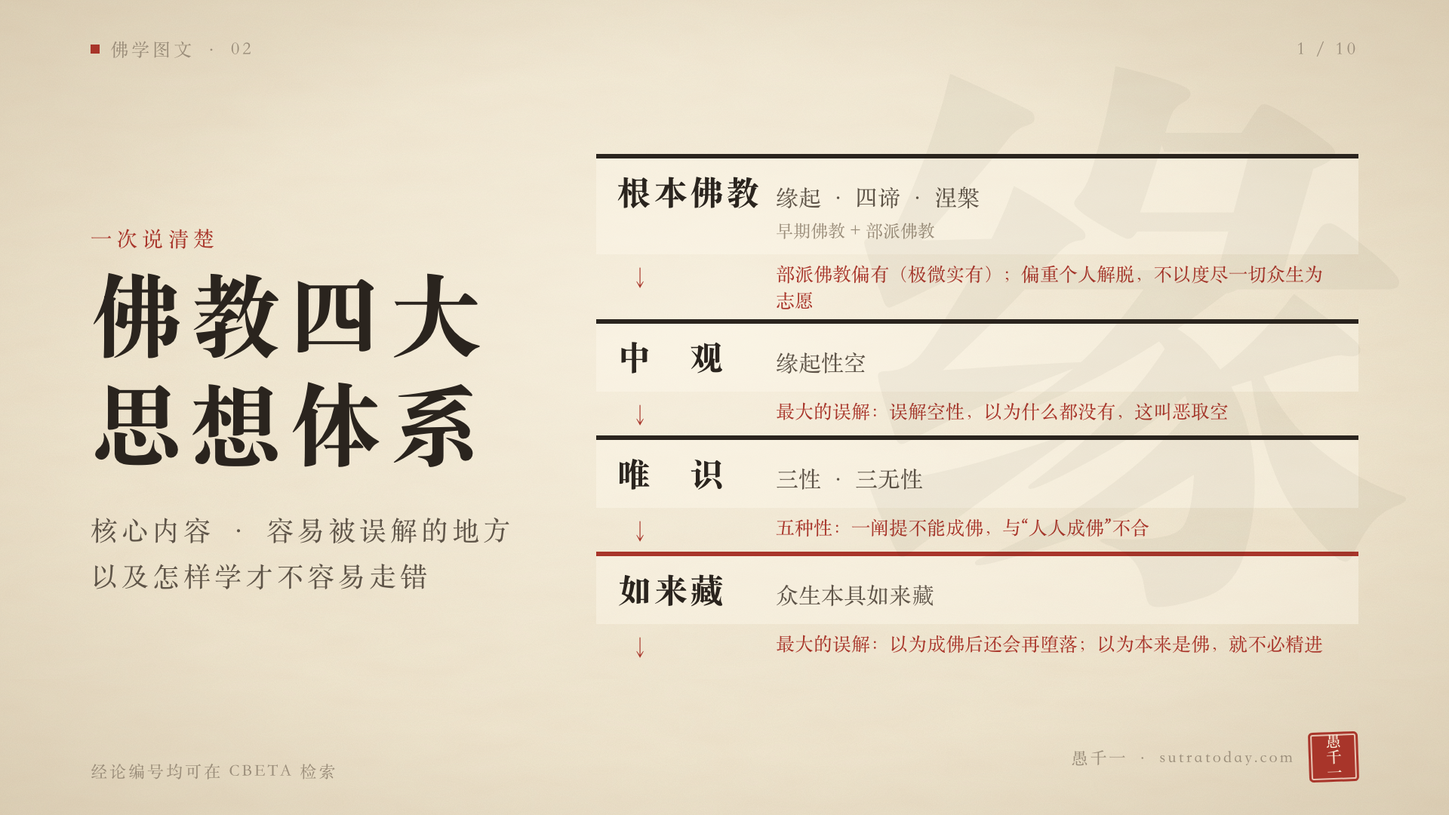
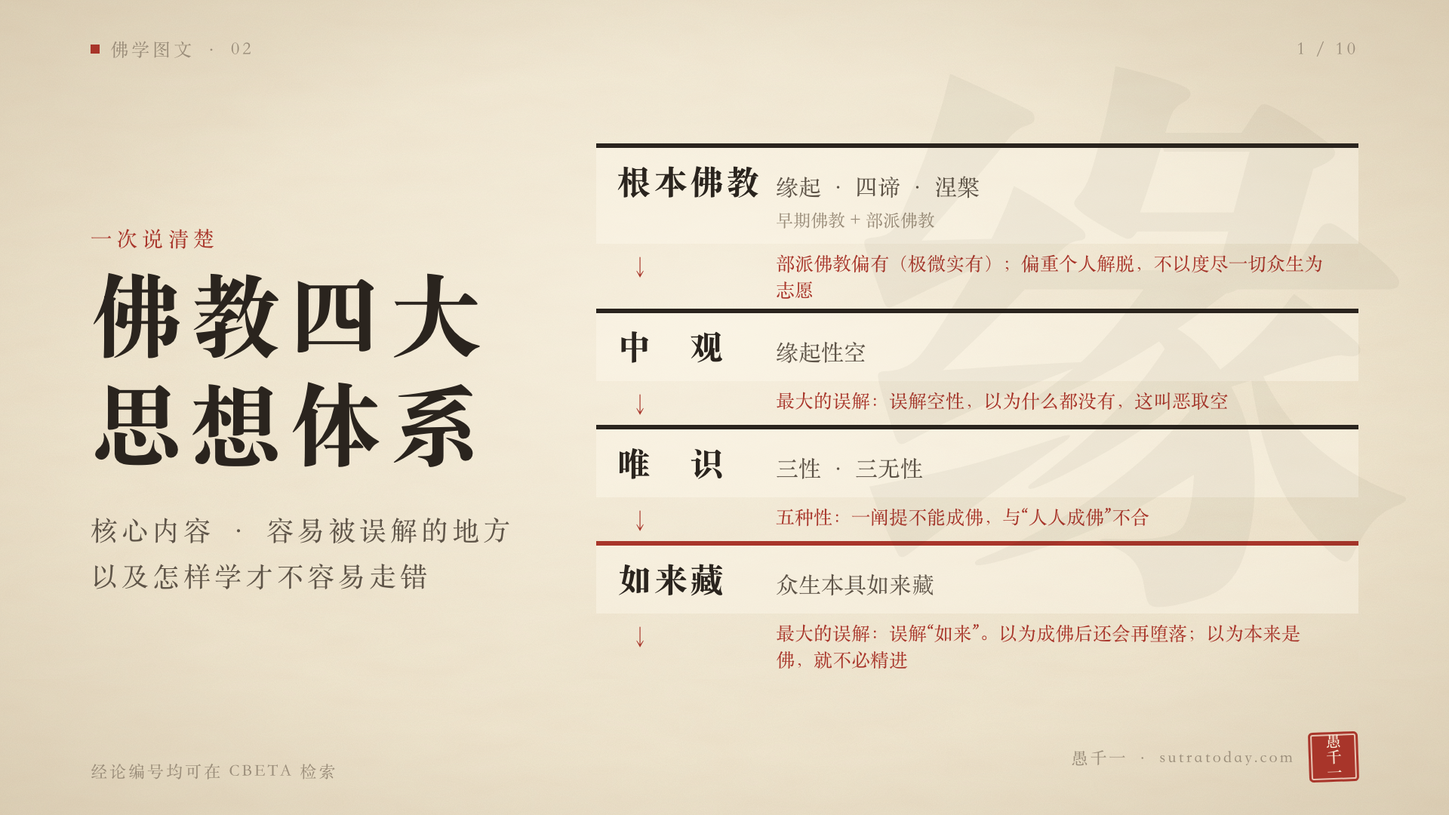
videos: 四大思想体系口播稿按经论校验修订，同步更新卡片 3/7/9 及引文核对记录

Changed region(s): [[0.4062, 0.4583, 0.9375, 0.825], [0.4062, 0.1528, 0.9375, 0.4583], [0.5312, 0.4278, 0.5938, 0.4583]]

diff --git a/videos/buddhism-four-systems-infographic/cards.html b/videos/buddhism-four-systems-infographic/cards.html
@@ -181,7 +181,7 @@
       <div class="n"><b>唯　识</b><span>三性 · 三无性</span></div>
       <div class="ar"><i>↓</i><span>五种性：一阐提不能成佛，与“人人成佛”不合</span></div>
       <div class="n r"><b>如来藏</b><span>众生本具如来藏</span></div>
-      <div class="ar"><i>↓</i><span>最大的误解：以为成佛后还会再堕落；以为本来是佛，就不必精进</span></div>
+      <div class="ar"><i>↓</i><span>最大的误解：误解“如来”。以为成佛后还会再堕落；以为本来是佛，就不必精进</span></div>
     </div>
   </div>
   <div class="foot"><span>经论编号均可在 CBETA 检索</span><span class="sign">愚千一 · sutratoday.com<span class="seal">愚千一</span></span></div>
@@ -240,7 +240,7 @@
       <p>菩萨道的迫切度生之心，要到大乘才充分展开。</p>
     </div>
   </div>
-  <div class="strip"><b>承接：</b>有部“偏有”的倾向，由般若“一切空”来纠偏。</div>
+  <div class="strip"><b>承接：</b>有部“偏有”的倾向，般若可以纠偏。</div>
   <div class="foot"><span>佛学图文 · 佛教四大思想体系</span><span class="sign">愚千一 · sutratoday.com<span class="seal">愚千一</span></span></div>
 </section>
 
@@ -345,17 +345,17 @@
   <div class="cols" style="grid-template-columns: 560px 1fr;">
     <div class="blk">
       <h3>五种性</h3>
-      <div class="tag">《成唯识论》卷 2：「既说本有五种性别」</div>
+      <div class="tag">《成唯识论》卷 2：依无漏种子的有无建立</div>
       <div class="pills">
         <span class="pill">声闻种性</span><span class="pill">独觉种性</span><span class="pill">如来种性</span><span class="pill">不定种性</span><span class="pill r">无种性</span>
       </div>
-      <p style="margin-top:20px;font-size:26px;color:var(--ink-soft)">《瑜伽师地论》卷 21 说无种姓的人“无涅槃法”，诸佛也不能救。</p>
+      <p style="margin-top:20px;font-size:26px;color:var(--ink-soft)">全无无漏种的，是无种性。《瑜伽师地论》卷 21 说无种姓的人“无涅槃法”，诸佛也不能救。</p>
     </div>
     <div class="cols" style="gap:20px;">
       <div class="blk r">
         <h3>与汉地的两处冲突</h3>
-        <p><b>一、</b>无种性的一阐提没有成佛的可能，与“人人都能成佛”不合。</p>
-        <p><b>二、</b>定性声闻永远不入菩萨乘，与《法华经》“声闻终成佛”不合（卷 2：舍利弗未来成华光如来）。</p>
+        <p><b>一、</b>无种性（一阐提）全无无漏种，没有成佛的可能，与“人人都能成佛”不合。</p>
+        <p><b>二、</b>只有声闻无漏种的人，所知障种永远断不了，不能成佛，与《法华经》“声闻终成佛”不合（卷 2：舍利弗未来成华光如来）。</p>
       </div>
       <div class="blk">
         <h3>汉地的背景，早于玄奘</h3>
@@ -363,7 +363,7 @@
       </div>
     </div>
   </div>
-  <div class="strip"><b>附记：</b>《解深密经》卷 2 自己说：“唯有一乘”是密意说，“非于一切有情界中，无有种种有情种性”。</div>
+  <div class="strip"><b>附记：</b>《解深密经》卷 2 自己说：“唯有一乘”是密意说，“非于一切有情界中，无有种种有情种性”。玄奘一系解释《法华经》，说它对的是大乘定性和三乘不定性的人（窥基《法华玄赞》卷 1）。</div>
   <div class="foot"><span>佛学图文 · 佛教四大思想体系</span><span class="sign">愚千一 · sutratoday.com<span class="seal">愚千一</span></span></div>
 </section>
 
@@ -398,31 +398,34 @@
 <section class="card">
   <div class="head"><span class="series">佛学图文 · 02</span><span class="pg"></span></div>
   <div class="tt"><div class="kicker">第四个体系 · 最大的误解</div></div>
-  <h1 class="title">如来藏的三个问题，与一个解释</h1>
+  <h1 class="title">误解“如来”：三种常见的理解</h1>
   <div class="rule"></div>
   <div class="cols c3 p3">
-    <div class="blk">
-      <h3>“本具”怎么理解</h3>
-      <p><b>甲、本具的是佛性的种子。</b>佛不会再长大，种子和佛是两样东西。</p>
-      <p><b>乙、本具的是圆满的佛。</b>被烦恼盖住：烦恼强，佛智就不圆满；佛智强，为什么不能自己破除烦恼？</p>
-    </div>
-    <div class="blk">
-      <h3>变得懈怠</h3>
-      <p>既然本来是佛，只要拂去灰尘，听上去不必很用力修行。不少人因此发心不大：反正迟早成佛。</p>
-      <p>实际上成佛要非常努力。</p>
-    </div>
     <div class="blk r">
-      <h3>成佛又变凡夫？</h3>
-      <p>有人以为：本来是佛，后来堕落成凡夫；修成佛以后，又会再堕落。</p>
-      <p>那就成了新的轮回，谈不上解脱。佛成就以后不再退转。</p>
+      <h3>一、成佛后变回凡夫</h3>
+      <div class="tag">严重误解</div>
+      <p>以为本来是佛，后来堕落成凡夫；修成佛以后，又会再堕落。</p>
+      <p>佛和凡夫来回循环，也是一种轮回，谈不上解脱。这是对佛了解得太少。</p>
+    </div>
+    <div class="blk">
+      <h3>二、圆满的佛，报身也具足</h3>
+      <div class="tag">严重误解</div>
+      <p>像一个成年人，只是被烦恼盖住，像镜子蒙了灰。</p>
+      <p>灰尘感觉上很容易擦掉，于是容易懈怠，很难精进地学佛、修行。</p>
+    </div>
+    <div class="blk">
+      <h3>三、婴儿佛</h3>
+      <div class="tag" style="color:var(--ink-soft)">一般误解</div>
+      <p>以为里面是一个婴儿佛，还要慢慢养大。</p>
+      <p>可是婴儿会长大，佛是圆满的，不需要再成长，也不需要再修行。</p>
     </div>
   </div>
   <div class="blk" style="margin-top:24px;border-top-color:var(--cinnabar);background:rgba(168,53,42,.06)">
-    <h3>用唯识来理解：佛性是什么　<span style="font-size:24px;font-weight:400;color:var(--ink-soft);letter-spacing:1px">作者的看法</span></h3>
+    <h3>“如来”是什么：用唯识来理解　<span style="font-size:24px;font-weight:400;color:var(--ink-soft);letter-spacing:1px">作者的看法</span></h3>
     <div class="cols" style="grid-template-columns:1fr 1fr 1fr;gap:28px;margin-top:10px">
       <p>有大师说佛性是空性。但空性没有作用，把没有作用的东西当作佛性，与“佛性能成佛”对不上。</p>
       <p>结合唯识，我们把佛性理解成这颗<b>清净的无漏种子</b>（《成唯识论》卷 2），是一种比较好、稳妥的理解方式。</p>
-      <p>种子本身没有力量，要生根发芽才有力量。所以既不是“本来就是佛”，也不是“不必修”，上面两种理解的难处也不再出现。</p>
+      <p>种子要发挥作用，要靠听闻正法、佛菩萨的助缘和六度修行来增长。《起信论》：本有的是真如自体、如来法身；报身要靠诸波罗蜜等无漏行熏成就。</p>
     </div>
   </div>
   <div class="foot"><span>佛学图文 · 佛教四大思想体系</span><span class="sign">愚千一 · sutratoday.com<span class="seal">愚千一</span></span></div>
@@ -440,7 +443,7 @@
     <tr><td class="k">根本佛教</td><td>缘起；四谛、十二因缘、三十七道品；涅槃＝烦恼灭尽（早期＋部派）</td><td class="pb">部派偏有（极微实有）；偏重个人解脱，不以度尽一切众生为志愿</td></tr>
     <tr><td class="k">中　观</td><td>因缘生，没有自性（没有固定、恒常、不变的实体），所以是空性</td><td class="pb">最大的误解：误解空性，以为什么都没有，否定因果，这叫恶取空</td></tr>
     <tr><td class="k">唯　识</td><td>八识；三性、三无性</td><td class="pb">五种性：一阐提、定性声闻不能成佛</td></tr>
-    <tr class="r"><td class="k">如来藏</td><td>众生本具如来藏，烦恼如尘</td><td class="pb">最大的误解：以为成佛后还会再堕落；以为本来是佛，就不必精进</td></tr>
+    <tr class="r"><td class="k">如来藏</td><td>众生本具如来藏，烦恼如尘</td><td class="pb">最大的误解：误解“如来”。以为成佛后还会再堕落；以为本来是佛，就不必精进</td></tr>
   </table>
   <div class="strip" style="margin-top:34px;border-left-width:8px;background:rgba(168,53,42,.08);padding:20px 30px;font-size:40px;line-height:1.55;color:var(--ink);font-weight:700">学习唯识，误解最少，走错路的可能性最小；用唯识来理解如来藏，同样稳妥。</div>
   <div class="foot"><span>佛学图文 · 佛教四大思想体系</span><span class="sign">愚千一 · sutratoday.com<span class="seal">愚千一</span></span></div>

diff --git a/videos/buddhism-four-systems-infographic/script.md b/videos/buddhism-four-systems-infographic/script.md
@@ -31,7 +31,7 @@
 根本佛教：部派佛教偏有，还有偏重个人解脱，不以度尽一切众生为志愿。  
 中观：最大的误解，是误解空性，以为什么都没有，这叫恶取空。  
 唯识：五种性，一阐提不能成佛，和汉地讲的人人成佛不合。  
-如来藏：最大的误解有两个，一个是以为成佛后还会再堕落，一个是以为本来是佛，就不必精进。  
+如来藏：最大的误解，是误解「如来」。由此，有人以为成佛后还会再堕落，有人以为本来是佛，就不必精进。  
 讲完以后，我会说一说我自己的看法：学哪一个体系，走错路的可能性最小。  
 
 ## 第 2 张
@@ -43,9 +43,9 @@
 这里最主要的，是《杂阿含经》里反复出现的一句话：「此有故彼有，此起故彼起；此无故彼无，此灭故彼灭。」  
 意思是：这个有，所以那个有；这个生起，所以那个生起；这个没有，所以那个没有；这个灭了，所以那个灭了。  
 这句话，《杂阿含》卷十二第二九八经里，是佛在讲缘起法：「此有故彼有，此起故彼起，谓缘无明行，乃至纯大苦聚集」。卷十三第三三五经里，又接着说：「此无故彼无，此灭故彼灭，无明灭故行灭」。  
-经里用它来讲人的生命。把范围放大，从生命放大到宇宙里的一切事物，这句话同样成立。所以，根本佛教的主要教义，就是缘起法。  
+经里用它来讲人的生命。把范围放大，从生命放大到宇宙里的一切事物，这句话同样成立。《杂阿含》卷十二第二九六经说，这个缘起法，「若佛出世，若未出世，此法常住，法住法界」：不管佛有没有出世，这个道理都在那里。所以，根本佛教的主要教义，就是缘起法。  
 再看图。上面一排，是十二因缘的顺转：无明、行、识、名色、六入、触、受、爱、取、有、生、老死。顺着走，就是苦聚集起。下面一排，是逆转：无明灭，行灭，一路灭到老死灭，苦聚灭。  
-根本佛教的目标是涅槃。涅槃的定义，就是烦恼灭尽。怎么灭烦恼？从十二因缘看，顺着烦恼走，是顺转；把烦恼灭掉，是逆转。具体的修法，是三十七道品。  
+根本佛教的目标是涅槃。涅槃的定义，就是烦恼灭尽。《杂阿含》卷十八，舍利弗回答阎浮车时说：「涅槃者，贪欲永尽，瞋恚永尽，愚痴永尽，一切诸烦恼永尽，是名涅槃。」怎么灭烦恼？从十二因缘看，顺着烦恼走，是顺转；把烦恼灭掉，是逆转。具体的修法，是三十七道品。  
 
 ## 第 3 张
 
@@ -58,17 +58,18 @@
 第二个，常有人批评说：他们讲了人我空，没有讲法我空。我的看法是，原始经文里，是可以推出法空的，只是没有重点强调。  
 比如《杂阿含》卷十三第三三五经，说眼睛生起的时候，没有来处；灭的时候，没有去处。「如是眼不实而生，生已尽灭，有业报而无作者」。眼，是一个法。经里说它生了就灭，不是实在的。顺着「此有故彼有」推下去，法空是自然的结论。  
 第三个，根本佛教确实以个人解脱为目标。它追求的，是自己烦恼灭尽，出离生死。对全人类、全部众生的解脱，没有特别去追求。这一点，是实情。  
-偏有这个倾向，后来由般若来纠偏。我们接着讲。  
+般若可以纠正这种偏有。我们接着讲。  
 
 ## 第 4 张
 
 ![](out/card-4.png)
 
 第二个体系，中观，也叫般若。  
-般若为了纠正偏有，讲「一切无，一切空」。这个空，是自性空。意思是：没有一个固定的、恒常的、不变的实体。  
+般若可以纠正偏有，它讲「一切无，一切空」。这个空，是自性空。意思是：没有一个固定的、恒常的、不变的实体。  
 怎么理解？任何事物，都是靠各种条件聚合起来的。条件变了，它就跟着变。你找不到哪一样东西，可以脱离条件独立存在，并且永远是那个样子。这就是自性空。  
 所以，般若的中心思想，合起来叫缘起性空。因缘生，所以有；没有自性，所以是空性。  
-空性，不是没有。现象上的有，般若并不否认。花开花落，人来人往，都是有的。它否认的，是在现象背后，另外有一个绝对不变的东西。  
+空性，不是没有。现象上的有，般若并不否认。花开花落，人来人往，都是有的。它否认的，是在现象背后，另外有一个绝对不变的东西。《心经》说：「色不异空，空不异色，色即是空，空即是色」，现象本身就是空，空也不离现象。  
+《中论》卷四，青目的注释里说：「若法有性相，则不待众缘而有」。如果一样东西有自性，它就不需要依靠条件。可是任何东西都要依靠条件，所以「无有不空法」，没有哪一样东西不是空。  
 龙树菩萨在《中论》卷四观四谛品里说：「未曾有一法，不从因缘生，是故一切法，无不是空者。」  
 把缘起性空这四个字弄明白，般若的思想就理解到了。再去读《心经》《金刚经》《般若经》，就容易得多。  
 
@@ -83,6 +84,8 @@
 《大宝积经》卷一一二，普明菩萨会，佛对迦叶说：「宁起我见积若须弥，非以空见起增上慢。」  
 《中论》卷二观行品：「大圣说空法，为离诸见故；若复见有空，诸佛所不化。」  
 《中论》卷四观四谛品：「不能正观空，钝根则自害，如不善咒术，不善捉毒蛇。」  
+《大智度论》卷十五也说：「若观诸法常毕竟空，取相心著，是为恶邪见」，把空抓成一个东西去执着，就是恶邪见。  
+反过来，《中论》卷四说：「以有空义故，一切法得成；若无空义者，一切则不成」。有了空义，一切才能成立，因果也在其中。把空理解成什么都没有，正好和这句话相反。  
 从这些原文看，执着有，还有办法化导；执着空，连诸佛也难化。  
 所以我的建议是：如果对空，不能产生正确的理解，干脆就认为有，一切都是有，也可以。  
 
@@ -98,6 +101,7 @@
 第三，圆成实性：远离执着以后，显出来的真如。  
 针对三性，又立了三无性。遍计所执，立相无性；依他起，立无自然性，也叫生无性；圆成实，立胜义无性。  
 世亲菩萨在《唯识三十论颂》里说：「即依此三性，立彼三无性，故佛密意说，一切法无性。」  
+《成唯识论》卷九解释这首颂时，特别说了一句：「故佛密意说一切法皆无自性，非性全无」。意思是，说无性，不是说什么都没有。依他起、圆成实，体不是没有；没有的，是凡夫在它们上面执着出来的实我、实法。  
 这样，有的一面，三性逐层分析清楚；空的一面，三无性讲明白。既不偏有，也不会落进恶取空。而且唯识属于大乘，立菩萨道，个人解脱的问题，也一并解决了。  
 有一点要留意：唯识把依他起、圆成实说成有，和中观的说法有出入。这一点，以后再专门讲。  
 
@@ -106,10 +110,11 @@
 ![](out/card-7.png)
 
 唯识也有它的短板。  
-玄奘大师传的唯识，有五种性的说法。《成唯识论》卷二里说：「既说本有五种性别」。五种是：声闻种性、独觉种性、如来种性、不定种性，还有无种性。《瑜伽师地论》卷二十一说，无种姓的人，没有涅槃法，诸佛也不能救。  
+玄奘大师传的唯识，有五种性的说法。五种是：声闻种性、独觉种性、如来种性、不定种性，还有无种性。  
+《成唯识论》卷二，按无漏种子的有无来讲：「若全无无漏种者，……即立彼为非涅槃法」，这是无种性；「若唯有二乘无漏种者」，是声闻种姓、独觉种姓；「若亦有佛无漏种者，……即立彼为如来种姓」。《瑜伽师地论》卷二十一说，无种姓的人，没有涅槃法，诸佛也不能救。  
 这和汉地的想法，有两处冲突。  
 第一，无种性的人，就是一阐提，没有成佛的可能；而汉地讲的是，人人都能成佛。  
-第二，定性声闻，永远不会进入菩萨乘；而《法华经》讲，声闻最终也会成佛。卷二里，舍利弗未来成佛，名叫华光如来。  
+第二，只有声闻无漏种子的人，所知障的种子永远断不了，不能成佛；而《法华经》讲，声闻最终也会成佛。卷二里，舍利弗未来成佛，名叫华光如来。玄奘一系对《法华经》的解释，是说这部经对的是大乘定性和三乘不定性的人，见窥基大师《法华玄赞》卷一。  
 汉地这种想法，在玄奘大师之前，已经相当普遍了。东晋义熙十四年，也就是公元四一八年，法显带回的六卷《泥洹经》译了出来。竺道生读了这部经，主张一阐提也都能成佛，《高僧传》卷七有记载。后来《涅槃经》大本传到南方，经里果然说，一切众生都有佛性。玄奘大师西行，是在唐朝初年，比这晚了两百多年。  
 顺便补一句，《解深密经》卷二里说：「唯有一乘」是密意说。经里还说：「非于一切有情界中，无有种种有情种性」。就是说，这部经自己，是承认众生的种性有差别的。  
 这就是唯识不被汉地接受的地方。而如来藏的思想，正好讲的是人人本具佛性，人人都能成佛。  
@@ -123,22 +128,25 @@
 《如来藏经》里说：「一切众生，虽在诸趣，烦恼身中有如来藏，常无染污，德相备足，如我无异。」  
 经里还有一个比喻：「譬如天眼之人，观未敷花，见诸花内有如来身……除去萎花，便得显现。」枯萎的花，比喻烦恼；花里的佛身，比喻如来藏。  
 《胜鬘经》卷一说：「如来法身不离烦恼藏，名如来藏。」  
+《大乘起信论》说，真如的自体，「从本已来，性自满足一切功德」，「名为如来藏，亦名如来法身」。但是论里同时说，现在的一切众生，「不名为觉」，因为他们「从本来念念相续，未曾离念」。  
 如来藏的思想，鼓舞人心，修行的方便也多，所以很受欢迎。汉传佛教的主流，就是如来藏这一系。依据的经论，有《如来藏经》《胜鬘经》《大般涅槃经》，还有《究竟一乘宝性论》。  
 
 ## 第 9 张
 
 ![](out/card-9.png)
 
-如来藏最容易被误解的地方，有三个。  
-第一个，「本具」怎么理解。如来藏，就是人人都是如来，人人都是佛。这有两种解释。  
-第一种，本来具有的，是佛性的种子。像一棵小树苗，像一个婴儿，还要养大。可是佛不会再长大。如果还有成长的空间，就不叫佛了。所以，种子和佛，是两样东西。  
-第二种，本来具有的，是一个圆满的佛，像一个成年人，只是被烦恼盖住了，像镜子蒙了灰。那就有问题：是烦恼厉害，还是佛的智慧厉害？如果烦恼厉害，就和佛的圆满智慧矛盾；如果佛的智慧厉害，为什么自己不能冲破烦恼？这就像水和火，不可能既是最厉害的水，又是最厉害的火，还融在一起。镜子的比喻也一样：镜子自己没有清洁的能力，要靠外面的东西。可是佛的智慧和能力是最强的，两者对不上。  
-《胜鬘经》卷一自己也说：「自性清净心而有染者，难可了知」。  
-第二个，让人变得消极、懈怠。既然本来就是佛，只要拂去灰尘，听上去不必很努力。所以很多信如来藏的人，发心都不大：反正人人是佛，迟早都会成佛。可是，成佛需要非常非常努力，不会轻松。你想想赚钱：赚快钱的，不是违法违德，就是骗人。成佛，难道会比这更容易吗？  
-第三个，以为成佛以后，还会变回凡夫。有人觉得，我们本来是佛，后来因为一些原因堕落，变成了凡夫；现在努力修，修成佛；成了佛，又会堕落，再来修。佛和凡夫来回循环，岂不也是一种轮回？这样，还谈什么解脱？这种理解，是对佛了解得太少。  
-那么怎么办？这是我自己的看法：结合唯识来理解。  
+如来藏最容易被误解的，是里面的「如来」。  
+如来藏，说的是人人都有如来，人人都是佛。那么，这个「如来」，到底是什么样的佛？大家常有三种误解。前两种，比较严重；第三种，是一般的误解。  
+第一种，以为成佛以后，还会变回凡夫。有人觉得，我们本来是佛，后来因为一些原因堕落，变成了凡夫；现在努力修，修成了佛；成了佛，又会堕落，再来修。佛和凡夫来回循环，岂不也是一种轮回？这样，还谈什么解脱？这种理解，是对佛了解得太少。  
+第二种，以为凡夫里面，是一个圆满的佛，连报身也具足了，像一个成年人，只是被烦恼盖住了，像镜子蒙了灰。灰尘，感觉上很容易擦掉，因此就容易产生懈怠的心理，很难精进地学佛、修行。  
+第三种，是一般的误解：以为是一个婴儿佛，还要慢慢养大。可是婴儿会长大，佛是圆满的，不需要再成长，也不需要再修行。所以婴儿佛的说法，说不通。  
+那么，如来藏里的「如来」，应该怎么理解？这是我自己的看法：结合唯识来理解。  
 有些大师说，佛性是空性。可是空性没有作用，把没有作用的东西当作佛性，和「佛性能成佛」，逻辑上对不上。  
-结合唯识，我们把佛性，理解成清净的无漏种子，《成唯识论》卷二讲的就是无漏种子。种子本身没有力量，要生根发芽，才有力量。所以既不是本来就是佛，也不是不必修行。前面两种理解的难处，也就不会出现了。  
+结合唯识，我们把佛性，理解成清净的无漏种子，《成唯识论》卷二讲的就是无漏种子。  
+要说明一点：玄奘大师传的唯识，认为无漏种子的有无，决定种姓的不同，无种性的人是全无无漏种的。所以这里借用的，是唯识对佛性的说明方式；人人是不是都有这颗种子，唯识和如来藏的看法不同。  
+种子要发挥作用，要生根发芽。生根发芽，需要条件。《成唯识论》卷二说，听闻正法的时候，也会熏习本有的无漏种子，「令渐增盛，展转乃至生出世心」。菩萨修六度，是在积累福德和智慧的资粮，《成唯识论》卷九里讲得很详细。  
+《大乘起信论》说的，是同一个道理。真如有一种自体相熏习，「从无始世来，具无漏法」，能让众生「自信己身有真如法，发心修行」。可是光有这个还不够，论里用木头里的火性作比喻：火性是火的正因，可是「若无人知，不假方便能自烧木，无有是处」；众生「虽有正因熏习之力，若不值遇诸佛菩萨善知识等以之为缘」，也不能自己断烦恼、入涅槃。所以还要靠佛菩萨这些外缘，要靠施、戒、忍、进、止观这些修行。  
+《起信论》里，本有的，是真如自体，也叫如来藏、如来法身。至于报身，论里说它是「皆因诸波罗蜜等无漏行熏，及不思议熏之所成就」，是修六度这些无漏行，一点一点熏成的。  
 我认为，这是一种比较好、稳妥的理解方式。  
 
 ## 第 10 张
@@ -149,7 +157,7 @@
 根本佛教：主张是缘起，四谛、十二因缘、三十七道品，目标是涅槃，也就是烦恼灭尽。问题是，部派佛教偏有，还有偏重个人解脱，不以度尽一切众生为志愿。  
 中观：因缘生，没有自性，所以是空性。最大的误解，是误解空性，以为什么都没有，否定因果，这叫恶取空。  
 唯识：讲八识，讲三性、三无性。问题是五种性：一阐提、定性声闻，不能成佛。  
-如来藏：众生本具如来藏，烦恼如尘。最大的误解有两个：以为成佛后还会再堕落；以为本来是佛，就不必精进。  
+如来藏：众生本具如来藏，烦恼如尘。最大的误解，是误解「如来」：以为成佛后还会再堕落；以为本来是佛，就不必精进。  
 四个体系讲完了，我自己的看法是：学习唯识，误解最少，走错路的可能性最小；用唯识来理解如来藏，同样稳妥。  
 这一期的经论，都可以在 CBETA 里检索到。  
 好，今天就讲到这里。  

diff --git a/videos/buddhism-four-systems-infographic/sources.md b/videos/buddhism-four-systems-infographic/sources.md
@@ -29,3 +29,39 @@
 
 - “玄奘翻译唯识时对五种性有很大顾虑”：没有查到出处。图卡只写了可核实的：玄奘西行起因之一是地论师、摄论师对佛性、阿赖耶识的分歧；成唯识论本身保留五种性。
 - 卡 7 的年代：六卷《泥洹经》译于东晋义熙十四年（418），到玄奘西行（唐初，约 627–629）两百多年。
+
+## 口播稿校验（根本佛教 / 中观 / 唯识 / 如来藏）新增并核对的引文
+
+| 位置 | 引文 | 出处 |
+|---|---|---|
+| 02 | 此法常住，法住法界 | 《杂阿含》卷 12 第 296 经 |
+| 02 | 涅槃者，贪欲永尽，瞋恚永尽，愚痴永尽，一切诸烦恼永尽，是名涅槃 | 《杂阿含》卷 18（舍利弗答阎浮车） |
+| 04 | 色不异空，空不异色，色即是空，空即是色 | 《般若波罗蜜多心经》（T251，玄奘译） |
+| 04 | 若法有性相，则不待众缘而有……是故无有不空法 | 《中论》卷 4 青目释（T1564） |
+| 05 | 若观诸法常毕竟空，取相心著，是为恶邪见 | 《大智度论》卷 15（T1509） |
+| 05 | 以有空义故，一切法得成；若无空义者，一切则不成 | 《中论》卷 4 观四谛品 |
+| 06 | 故佛密意说一切法皆无自性，非性全无 | 《成唯识论》卷 9（T1585） |
+| 07 | 若全无无漏种者……非涅槃法；若唯有二乘无漏种者……声闻、独觉种姓；若亦有佛无漏种者……如来种姓 | 《成唯识论》卷 2（护法正义：依障建立种姓别，意显无漏种子有无） |
+| 07 | 玄奘一系对《法华经》的解释：此经对大乘定性及三乘不定性者 | 窥基《法华玄赞》卷 1（T1723） |
+| 08 | 从本已来，性自满足一切功德……名为如来藏，亦名如来法身 | 《大乘起信论》（T1666） |
+| 08 | 是故一切众生不名为觉，以从本来念念相续未曾离念故 | 同上 |
+| 09 | 若人虽念真如，不以方便种种熏修，亦无得净；闻无量无边阿僧祇劫勤苦难行乃得涅槃 | 同上 |
+| 09 | 染法从无始已来熏习不断，乃至得佛后则有断。净法熏习则无有断，尽于未来 | 同上 |
+
+## 校验中发现、尚未改口播稿的问题（待作者决定）
+
+1. （已处理）卡 7 原引的「既说本有五种性别」，在《成唯识论》卷 2 里是“种子本有”一派的论证句，不是护法正义。口播稿和图卡 7 都已改引正义段。
+2. （已澄清）《起信论》不是反驳作者对如来藏的看法，而是支持：本有的是真如自体、如来法身（因），报身由诸波罗蜜等无漏行熏成就（果）。作者要说的是“如来藏里的如来”常被误解为具足的报身佛，卡 9、口播稿 09 已按此改写。
+3. 口播稿 09 的“用唯识解释佛性”与玄奘系五种性有张力：玄奘系里无种性者全无无漏种。已在稿里加了一句说明。
+
+## 第三轮：清净无漏种子与《起信论》因缘说
+
+| 位置 | 引文 | 出处 |
+|---|---|---|
+| 09 | 其闻熏习非唯有漏，闻正法时亦熏本有无漏种子，令渐增盛，展转乃至生出世心 | 《成唯识论》卷 2 |
+| 09 | 六种波罗蜜多……前五说为福德，第六智慧（菩萨于初无数劫善备福德、智慧资粮） | 《成唯识论》卷 9 |
+| 09 | 自体相熏习者，从无始世来，具无漏法……自信己身有真如法，发心修行 | 《大乘起信论》（T1666） |
+| 09 | 如木中火性是火正因，若无人知，不假方便能自烧木，无有是处。众生亦尔，虽有正因熏习之力，若不值遇诸佛菩萨善知识等以之为缘，能自断烦恼入涅槃者，则无是处 | 同上 |
+| 09 | 诸菩萨……心所见者，名为报身……皆因诸波罗蜜等无漏行熏，及不思议熏之所成就 | 同上 |
+
+对应关系：《起信论》的「自体相熏习」（因）对应唯识的本有无漏种子（本性住种）；「用熏习」（佛菩萨外缘）和施戒忍进止观的修行，对应闻熏习与六度资粮，使无漏种子增盛；报身是诸波罗蜜等无漏行熏成就的，不是本有的。
